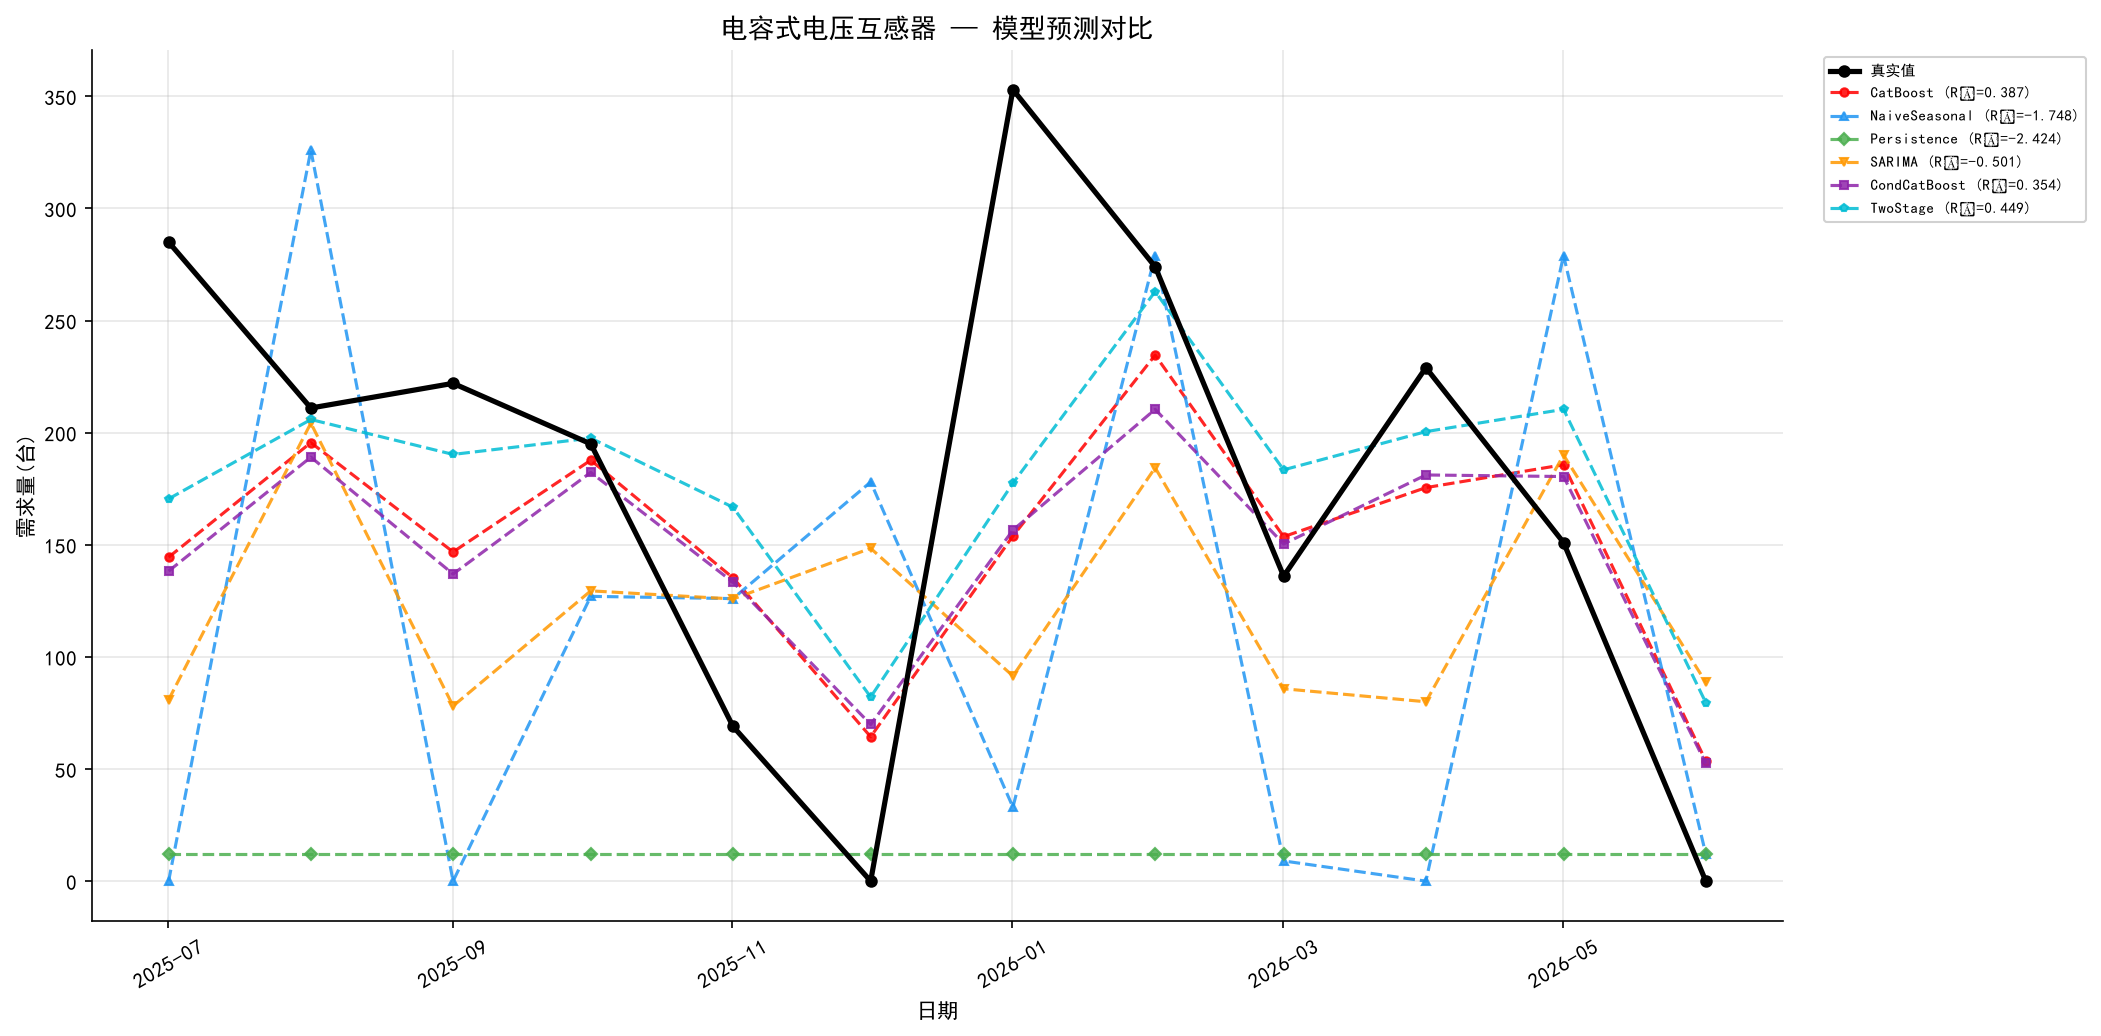
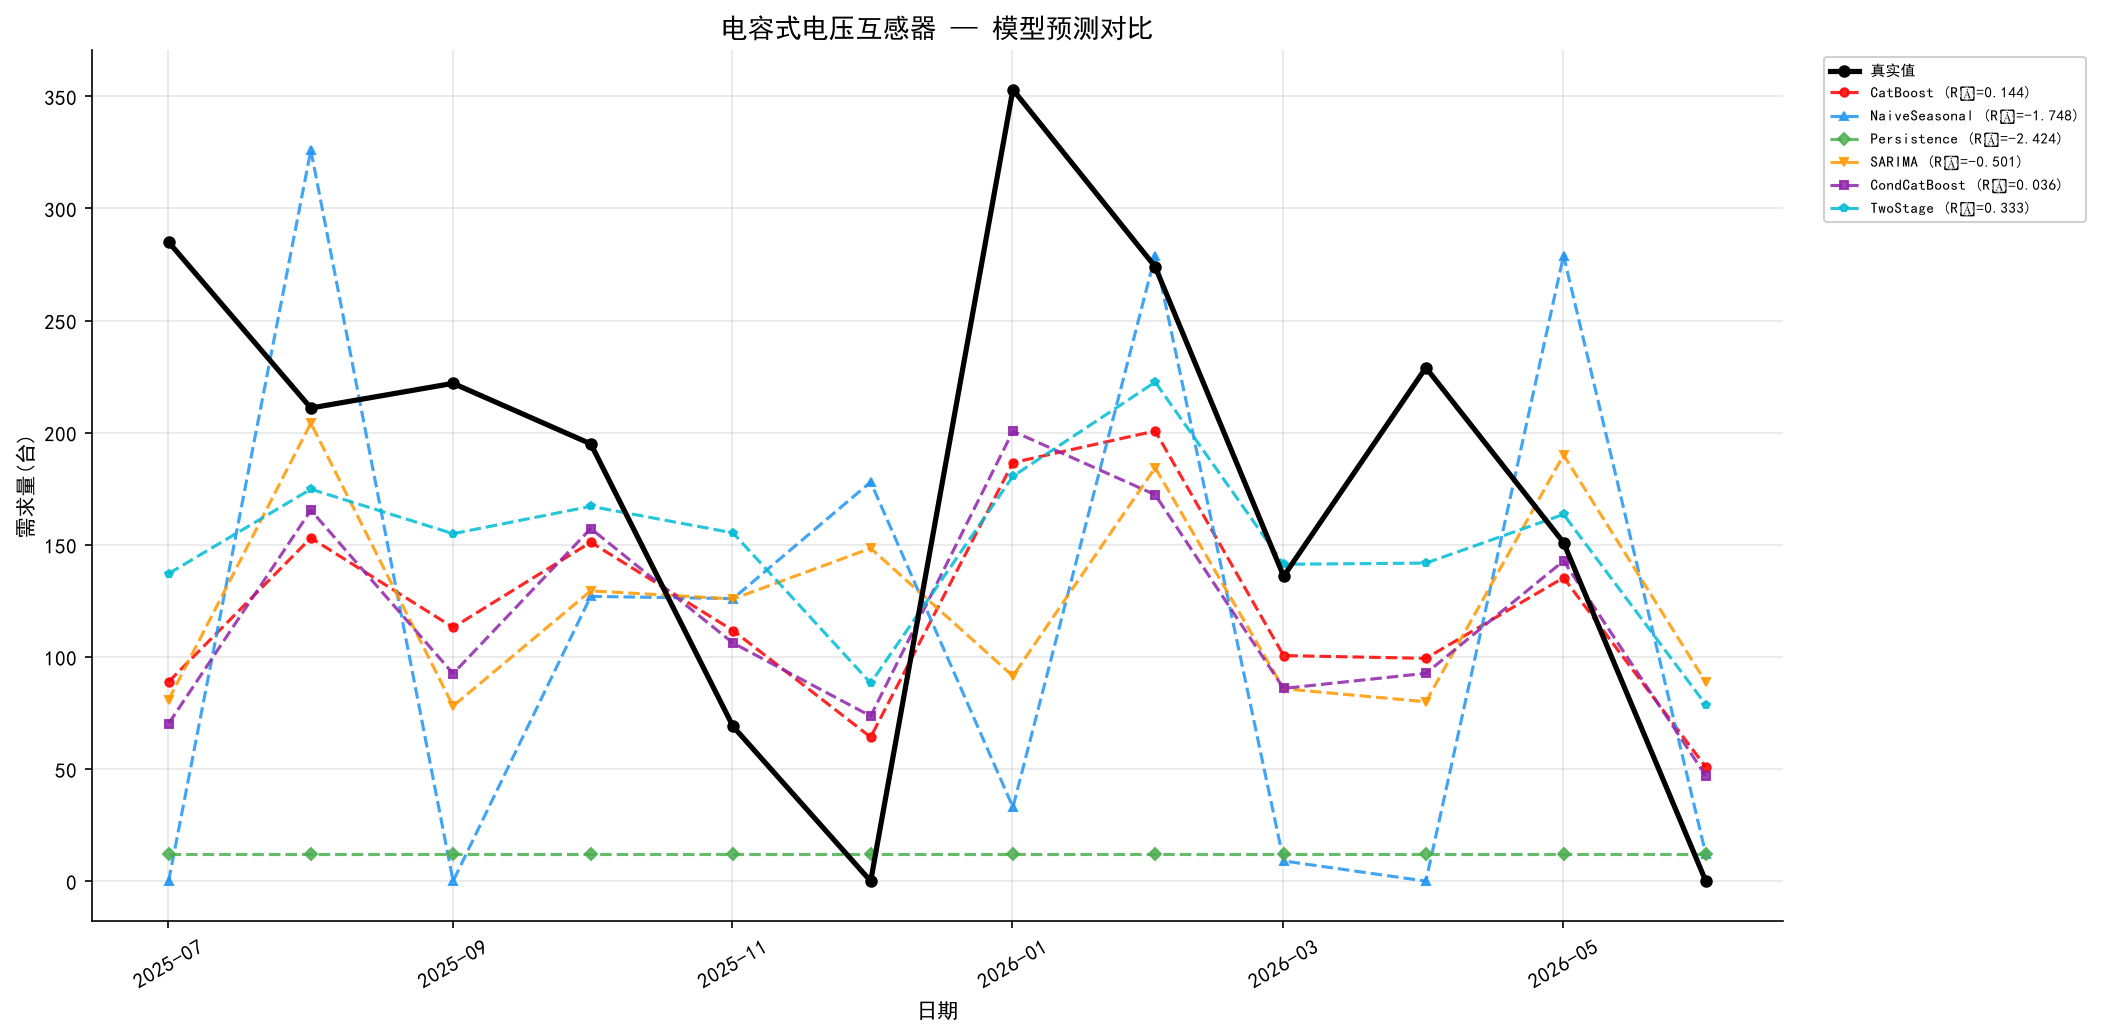
提交模型运行结果

diff --git a/main.py b/main.py
@@ -253,7 +253,7 @@ def preprocess_data(df, material):
         n = len(seq)
         lag1 = np.zeros(n); lag1[1:] = seq[:-1]
         lag12 = np.zeros(n); lag12[12:] = seq[:-12]
-        roll3 = np.array([np.mean(seq[max(0,i-2):i+1]) for i in range(n)])
+        roll3 = np.array([np.mean(seq[max(0,i-3):i]) for i in range(n)])  # 仅历史值, 无数据泄露
         return lag1, lag12, roll3
 
     lag1_tr, lag12_tr, roll3_tr = make_lag_rolling(demand_train)
@@ -279,7 +279,7 @@ def preprocess_data(df, material):
         idx = train_len + i
         lag1_te[i] = demand_raw[idx-1] if idx>0 else 0
         lag12_te[i] = demand_raw[idx-12] if idx>=12 else 0
-        roll3_te[i] = np.mean(demand_raw[max(0,idx-2):idx+1])
+        roll3_te[i] = np.mean(demand_raw[max(0,idx-3):idx])  # 仅历史值, 无未来泄露
 
     is_zero_lag1_te = (lag1_te == 0).astype(float)
     is_zero_lag12_te = (lag12_te == 0).astype(float)
